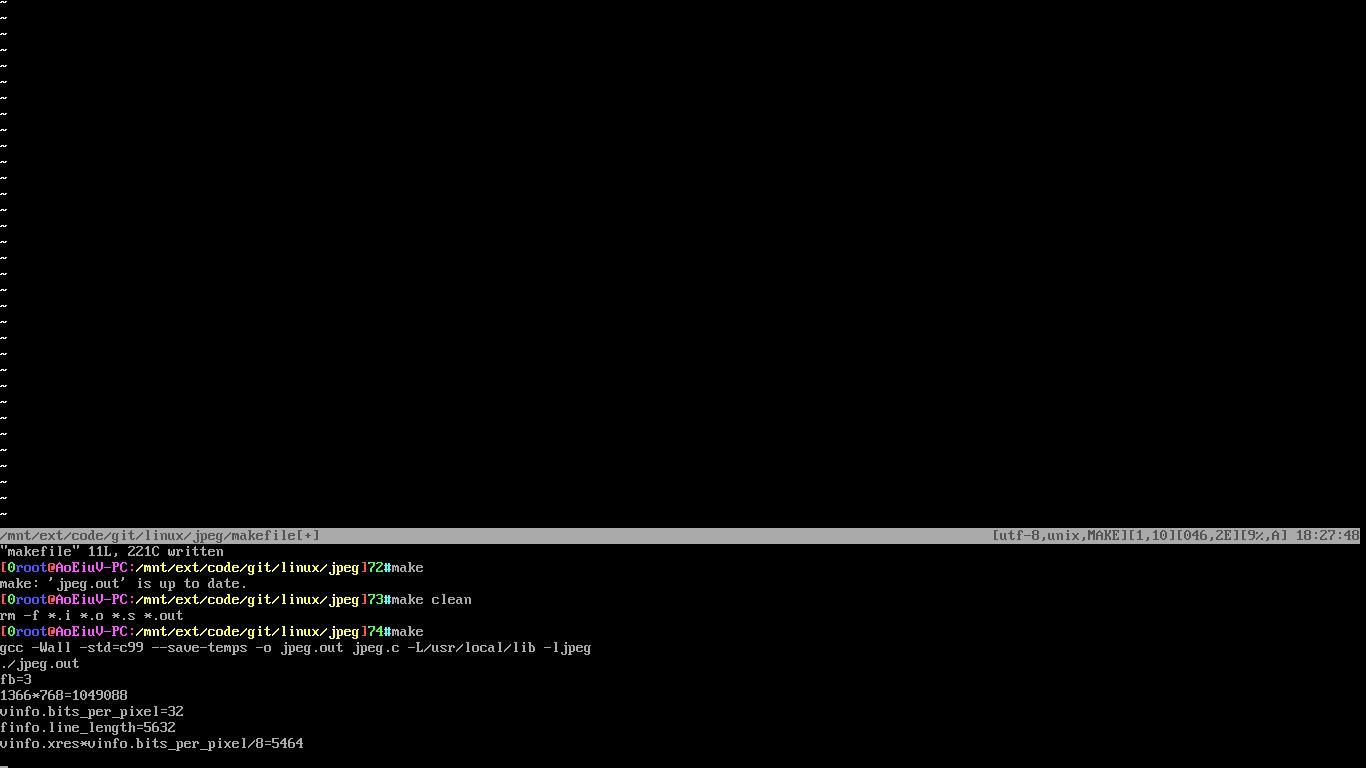
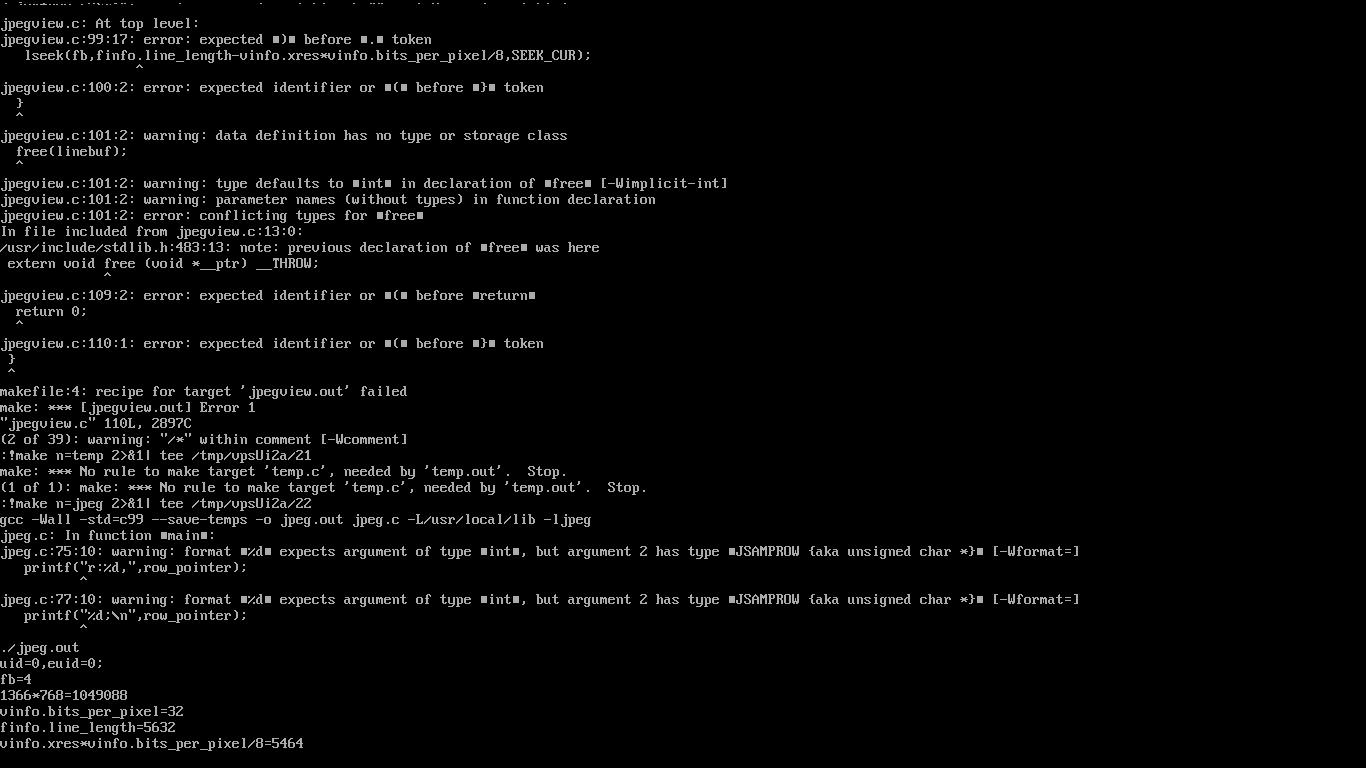
AoEiuV020 commit...

diff --git a/jpeg/jpegview.c b/jpeg/jpegview.c
@@ -1,0 +1,96 @@
+/*****************************************************
+	^> File Name: jpegview.c
+	^> Author: AoEiuV020
+	^> Mail: 490674483@qq.com
+	^> Created Time: 2015/08/14 - 18:30:55
+****************************************************/
+#include <stdio.h>
+#include <fcntl.h>
+#include <sys/ioctl.h>
+#include <linux/fb.h>
+#include <jpeglib.h>
+#include <unistd.h>
+#include <stdlib.h>
+#ifdef __ANDROID__
+#define FB "/dev/graphics/fb0"
+#else
+#define FB "/dev/fb0"
+#endif
+const char *JPG="jpg.jpg";
+void jpginfo(j_decompress_ptr jdp)
+{
+	printf("%u*%u=%u\n",jdp->image_width,jdp->image_height,jdp->image_width*jdp->image_height);
+	printf("%u*%u=%u\n",jdp->output_width,jdp->output_height,jdp->output_width*jdp->output_height);
+	printf("num_components:%d\n",jdp->num_components);
+	printf("output_components:%d\n",jdp->output_components);
+	printf("out_color_space:%d\n",jdp->out_color_space);
+	printf("actual_number_of_colors:%d\n",jdp->actual_number_of_colors);
+	printf("\n");
+	fflush(stdout);
+}
+void fbinfo(struct fb_var_screeninfo vinfo,struct fb_fix_screeninfo finfo)
+{
+	printf("uid=%u,euid=%u;\n",getuid(),geteuid());
+	printf("%u*%u=%u\n", vinfo.xres, vinfo.yres, vinfo.xres * vinfo.yres);
+	printf("vinfo.bits_per_pixel=%u\n", vinfo.bits_per_pixel);
+	printf("finfo.line_length=%u\n",finfo.line_length);
+	printf("vinfo.xres*vinfo.bits_per_pixel/8=%u\n",vinfo.xres*vinfo.bits_per_pixel/8);
+	printf("\n");
+	fflush(stdout);
+}
+int main(int argc, char **argv)
+{
+	int fb;
+	fb = open(FB, O_RDWR);
+	if(fb==-1)
+	{
+		printf("are you root?\n");
+		return -1;
+	}
+	struct fb_var_screeninfo vinfo;
+	struct fb_fix_screeninfo finfo;
+	ioctl(fb, FBIOGET_FSCREENINFO, &finfo);
+	ioctl(fb, FBIOGET_VSCREENINFO, &vinfo);
+	fbinfo(vinfo,finfo);
+	if(argc>1)
+	{
+		JPG=argv[1];
+	}
+	FILE *fjpg;
+	fjpg=fopen(JPG,"rb");
+	if(fjpg==NULL)
+	{
+		printf("%s exist?\n",JPG);
+		return -2;
+	}
+	struct jpeg_decompress_struct jdinfo;
+	struct jpeg_error_mgr jerr;
+	jdinfo.err=jpeg_std_error(&jerr);
+	jpeg_create_decompress(&jdinfo);
+	jpeg_stdio_src(&jdinfo,fjpg);
+	jpeg_read_header(&jdinfo,TRUE);
+	jdinfo.out_color_space=JCS_RGB;
+	jpeg_start_decompress(&jdinfo);
+	jpginfo(&jdinfo);
+	unsigned char *jpglinebuf=(unsigned char*)malloc(jdinfo.output_width*jdinfo.output_components);
+	unsigned char *fblinebuf=(unsigned char*)malloc(finfo.line_length);
+	int fbindex,jpgindex;
+	int i,j;
+	for(i=0;jdinfo.output_scanline<jdinfo.output_height;++i)
+	{
+		jpeg_read_scanlines(&jdinfo,&jpglinebuf,1);
+		for(j=0;j<jdinfo.output_width;++j)
+		{
+			fbindex=j*(vinfo.bits_per_pixel/8);
+			jpgindex=j*jdinfo.output_components;
+			fblinebuf[fbindex+vinfo.red.offset/8]=jpglinebuf[jpgindex+0];
+			fblinebuf[fbindex+vinfo.green.offset/8]=jpglinebuf[jpgindex+1];
+			fblinebuf[fbindex+vinfo.blue.offset/8]=jpglinebuf[jpgindex+2];
+		}
+		lseek(fb,finfo.line_length*i,SEEK_SET);
+		write(fb,fblinebuf,jdinfo.output_width*(vinfo.bits_per_pixel/8));
+	}
+	jpeg_finish_decompress(&jdinfo);
+	jpeg_destroy_decompress(&jdinfo);
+	return 0;
+}

diff --git a/temp.c b/temp.c
@@ -5,9 +5,43 @@
 	^> Created Time: 2015/08/14 - 15:44:00
 ****************************************************/
 #include <stdio.h>
-#define p(x,y) xy
+#include <fcntl.h>
+#include <sys/stat.h>
+#include <sys/types.h>
+#include <unistd.h>
+#ifdef __ANDROID__
+#define FB "/dev/graphics/fb0"
+#else
+#define FB "/dev/fb0"
+#endif
 int main(int argc, char **argv)
 {
-	p(pri,ntf)("hello\n");
+	int fb;
+	FILE *fp;
+	unsigned char buf=1;
+	int i,r;
+	/*我发现读取失败的那个手机的fb0的owner是system,于是来这几句试试，但也没用，，，*/
+	//setuid(1000);
+	struct stat st;
+	stat(FB,&st);
+	setuid(st.st_uid);
+	//*/
+	fb=open(FB,O_RDONLY);
+	fp=fopen(FB,"rb");
+	fflush(stdout);
+	printf("%u,%d,%p;\n",getuid(),fb,fp);
+	for(i=0;i<8888;++i)
+	{
+		r=read(fb,&buf,1);
+		if(buf!=0)
+		{
+			printf("%d:%d,%x,\n",i,r,buf);
+		}
+		r=fread(&buf,1,1,fp);
+		if(buf!=0)
+		{
+			printf("%d:%d,%x,\n",i,r,buf);
+		}
+	}
 	return 0;
 }

diff --git a/jpeg/jpeg.c b/jpeg/jpeg.c
@@ -21,21 +21,22 @@ int main()
 {
 	int fb;
 	fb = open(FB, O_RDONLY);
+	if(fb==-1)
+	{
+		printf("are you root?\n");
+		return -1;
+	}
 	struct fb_var_screeninfo vinfo;
 	struct fb_fix_screeninfo finfo;
 	ioctl(fb, FBIOGET_FSCREENINFO, &finfo);
 	ioctl(fb, FBIOGET_VSCREENINFO, &vinfo);
+	printf("uid=%u,euid=%u;\n",getuid(),geteuid());
 	printf("fb=%d\n", fb);
 	printf("%u*%u=%u\n", vinfo.xres, vinfo.yres, vinfo.xres * vinfo.yres);
 	printf("vinfo.bits_per_pixel=%u\n", vinfo.bits_per_pixel);
 	printf("finfo.line_length=%u\n",finfo.line_length);
 	printf("vinfo.xres*vinfo.bits_per_pixel/8=%u\n",vinfo.xres*vinfo.bits_per_pixel/8);
 	fflush(stdout);
-	if(fb==-1)
-	{
-		printf("are you root?\n");
-		return -1;
-	}
 	unsigned char *screen=(unsigned char*)malloc(vinfo.yres*vinfo.xres*3);
 	for(int i=0;i<vinfo.yres;++i)
 	{
